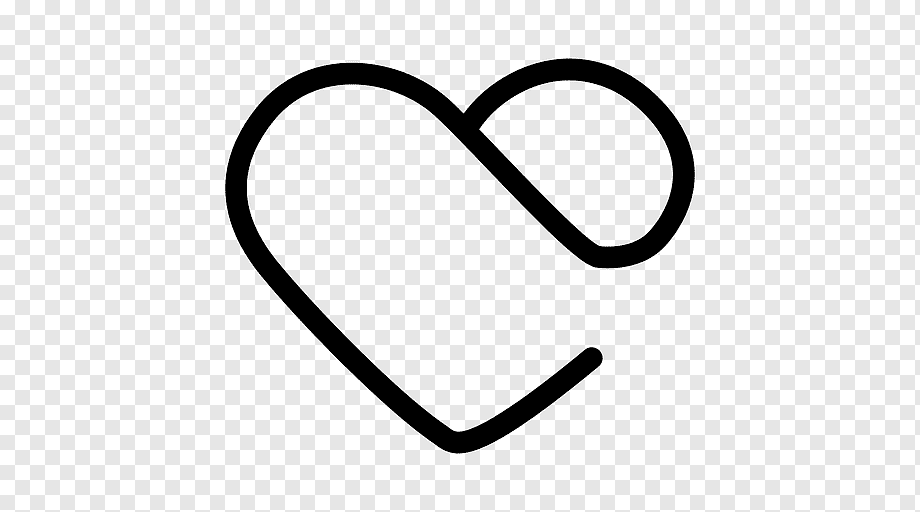
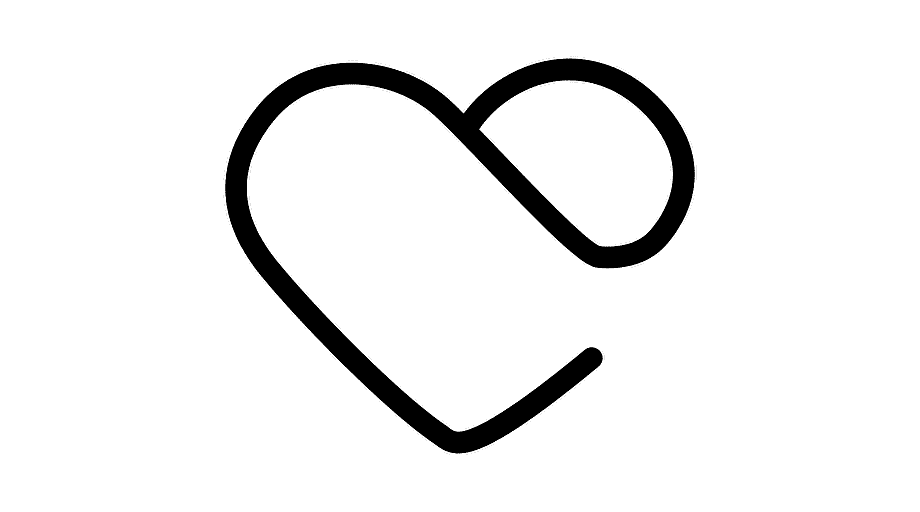
feat: added custom  donate button

diff --git a/donate.html b/donate.html
@@ -6,22 +6,22 @@
     <meta http-equiv="X-UA-Compatible" content="ie=edge">
     <link rel="preconnect" href="https://fonts.googleapis.com">
     <link rel="preconnect" href="https://fonts.gstatic.com" crossorigin>
-    <link href="https://fonts.googleapis.com/css2?family=Raleway:ital,wght@1,200&display=swap" rel="stylesheet">
+    <link href="https://fonts.googleapis.com/css2?family=Markazi+Text&display=swap" rel="stylesheet">
     <link rel="stylesheet" href="styles.css" type="text/css" />
     <link rel="stylesheet" href="grid.css" type="text/css" />
     <title>donate</title>
 </head>
 <body>
-    <main>
+    <main class= "donatecontainer">
         <nav>
-            <div class="nav-logo">
-               <div class="beelogo">
-                  <img class= "headlogo"src="images/logobee.png"></img>
+            <div class="nav-heart">
+               <div class="heartlogo">
+                  <img class= "heart"src="images/heart.png"></img>
                </div>
-               <div class="nav-header"></div>
-               <h1 class= "title" href= "home.html">For The Bee's</h1>
+               <div class="heart-header"></div>
+               <h1 class= "hearttitle" href= "home.html">donate</h1>
             </div>
-            <ul>
+            <ul calss= "hyp2">
                <li class= "shop"><a href= "shop.html">Shop</a></li>
                <li class= "donate"><a href="donate.html">Donate</a></li>
                <li class= "aboutus"><a href="about.html">About Us</a></li>
@@ -29,7 +29,18 @@
          </nav>
          <content>
              <header>
-                 <img src="images/trail.png"></img>
+                 <div class= "change">
+                     <h1>make a real change</h1>
+                     <img src="images/trail.png"></img>
+                     <form action="https://www.paypal.com/donate" method="post" target="_top">
+                     <input type="hidden" name="business" value="228P5UN66MCM8" />
+                     <input type="hidden" name="no_recurring" value="0" />
+                     <input type="hidden" name="item_name" value="All donations will go to thebeeconservancy.org" />
+                     <input type="hidden" name="currency_code" value="USD" />
+                     <input type="image" src="images/donatebutton.png" border="0" name="submit" title="PayPal - The safer, easier way to pay online!" alt="Donate with PayPal button" />
+                     <img class= "donatebutton"alt="" border="0" src="https://www.paypal.com/en_US/i/scr/pixel.gif" width="1" height="1" />
+                     </form>
+                 </div>
              </header>
          </content>
     </main>

diff --git a/styles.css b/styles.css
@@ -10,7 +10,9 @@ nav{
     align-items: center;
     justify-content: space-between;
     width: 100%;
+    font-family: 'Markazi Text', serif;
     /*height: 5%;*/
+    font-size: 3vh;
 }
 
 h1{
@@ -122,7 +124,7 @@ body{
 }
 }
 
-@media screen and (max-width: 390px) {
+@media screen and (max-width: 360px) {
     
     html, body {
         width: 100%;
@@ -147,4 +149,40 @@ body{
         width: 125vh;
         height: auto;
     }
+    
+    .hyp1{
+        font-size: 3vh;
+    }
+}
+
+/*// donate.html // */
+
+.heart{
+    width: 14vh;
+}
+
+.nav-heart{
+    display: flex;
+    align-items: center;
+    font-size: 3vh;
+}
+
+.hypl{
+    font-size: 1.5vw;
+    align-items: space-between;
+}
+
+.hyp2{
+    font-size: 1.4vw;
+    font-weight: lighter;
+    align-items: space-between;
+}
+
+.change{
+    display: flex;
+    flex-direction: row;
+}
+
+.donatebutton{
+    width: 1vw;
 }

diff --git a/home.html b/home.html
@@ -21,7 +21,7 @@
                <div class="nav-header"></div>
                <h1 class= "title" href= "home.html">For The Bee's</h1>
             </div>
-            <ul>
+            <ul class= "hypl">
                <li class= "shop"><a href= "shop.html">Shop</a></li>
                <li class= "donate"><a href="donate.html">Donate</a></li>
                <li class= "aboutus"><a href="about.html">About Us</a></li>
